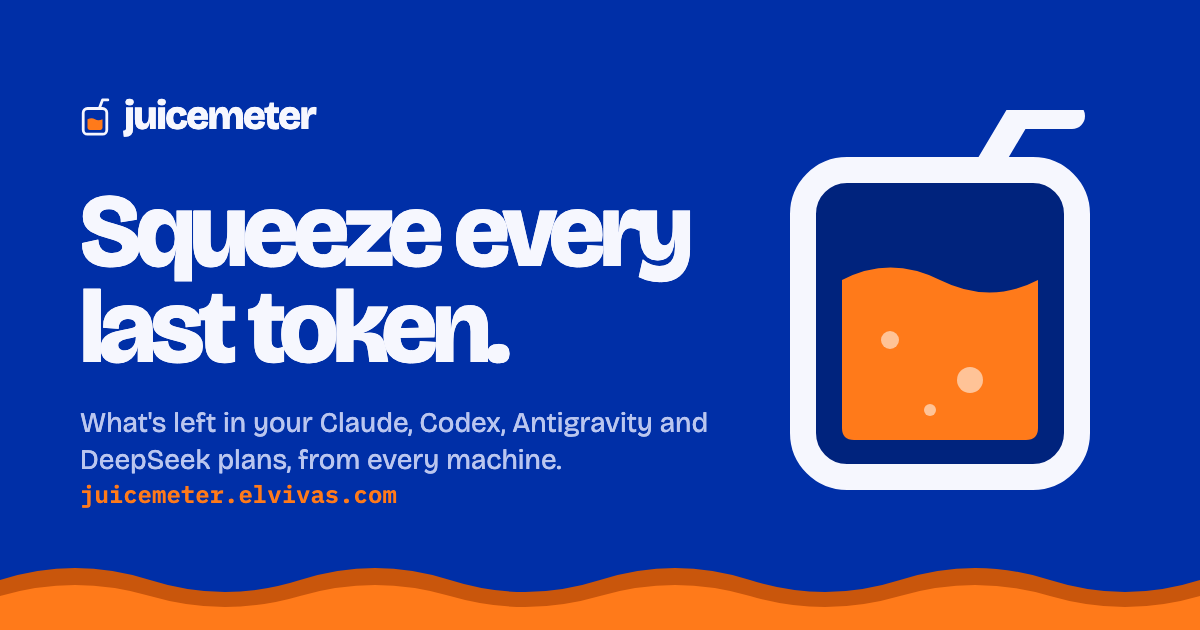
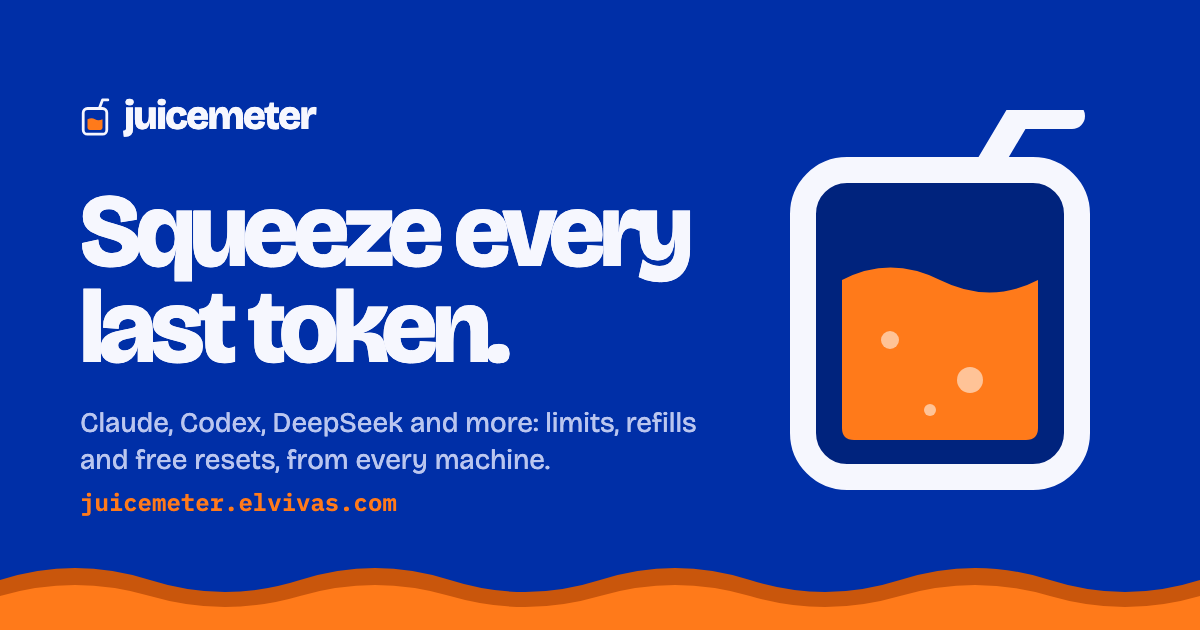
Pitch: Claude, Codex, DeepSeek and more, with free resets
Site intro, descriptions, link preview and README intro no longer name
Antigravity; the Works with grid ends with an And more card. Antigravity
stays documented in the README's provider reference.

Changed region(s): [[0.0617, 0.6333, 0.5858, 0.8143]]

diff --git a/site/index.html b/site/index.html
@@ -4,12 +4,12 @@
   <meta charset="utf-8">
   <meta name="viewport" content="width=device-width, initial-scale=1">
   <title>juicemeter · squeeze every last token</title>
-  <meta name="description" content="How much is left in your Claude, Codex, Antigravity and DeepSeek plans, from every machine you use, right in your menu bar.">
+  <meta name="description" content="How much is left in your Claude, Codex and DeepSeek plans, and more, from every machine you use, right in your menu bar. Limits, refill times and free resets before they expire.">
   <link rel="icon" href="icon.png">
   <meta property="og:type" content="website">
   <meta property="og:url" content="https://juicemeter.elvivas.com/">
   <meta property="og:title" content="juicemeter · squeeze every last token">
-  <meta property="og:description" content="What's left in your Claude, Codex, Antigravity and DeepSeek plans, from every machine, right in your menu bar.">
+  <meta property="og:description" content="What's left in your Claude, Codex and DeepSeek plans, and more, from every machine: limits, refill times and free resets before they expire.">
   <meta property="og:image" content="https://juicemeter.elvivas.com/og.png">
   <meta property="og:image:width" content="1200">
   <meta property="og:image:height" content="630">
@@ -39,7 +39,7 @@
     <section class="hero wrap">
       <div class="hero-text">
         <h1>Squeeze every last token.</h1>
-        <p class="lede">How much is left in your Claude, Codex, Antigravity and DeepSeek plans, from every machine you use, right in the menu bar. It warns you before one runs dry. It also nags you when a whole week of it is about to go to waste, which is the one that really stings.</p>
+        <p class="lede">How much is left in your Claude, Codex and DeepSeek plans, and more, from every machine you use, right in the menu bar. It warns you before one runs dry. It nags you when a whole week of it is about to go to waste, which is the one that really stings, and before a free reset quietly expires.</p>
         <div class="cta">
           <a class="btn" href="#install">Install</a>
           <a class="btn ghost" href="https://github.com/vivosAi/juicemeter">View on GitHub</a>
@@ -196,7 +196,7 @@ cp -R ../../target/release/bundle/macos/juicemeter.app /Applications/</code></pr
         <li><b>Claude</b><span>Pro and Max: session and weekly limits</span></li>
         <li><b>Codex</b><span>ChatGPT plans: 5-hour and weekly limits, credits</span></li>
         <li><b>DeepSeek</b><span>API balance</span></li>
-        <li><b>Antigravity</b><span>Weekly quota for its Gemini and Claude models</span></li>
+        <li class="soon"><b>And more</b><span>Anything that reports usage as JSON, in a few lines of config</span></li>
       </ul>
     </section>
   </main>
@@ -213,7 +213,7 @@ cp -R ../../target/release/bundle/macos/juicemeter.app /Applications/</code></pr
     </div>
     <div class="foot-juice">
       <div class="wrap foot">
-        <p>Open source. Not affiliated with Anthropic, OpenAI, Google or DeepSeek.</p>
+        <p>Open source. Not affiliated with any of the providers it reads.</p>
         <a href="https://github.com/vivosAi/juicemeter">github.com/vivosAi/juicemeter</a>
       </div>
     </div>

diff --git a/README.md b/README.md
@@ -1,7 +1,7 @@
 # juicemeter
 
-How much juice is left in your AI subscriptions. Plan limits, reset times and API
-balances for Claude, Codex, Antigravity and DeepSeek, from every machine you use, in one place.
+How much juice is left in your AI subscriptions. Plan limits, refill times, free resets and
+API balances for Claude, Codex, DeepSeek and more, from every machine you use, in one place.
 
 <p align="center"><img src="docs/screenshots/panel.png" width="520" alt="The juicemeter menu bar item and its panel: Codex squeezed dry, Claude's week going to waste"></p>
 
